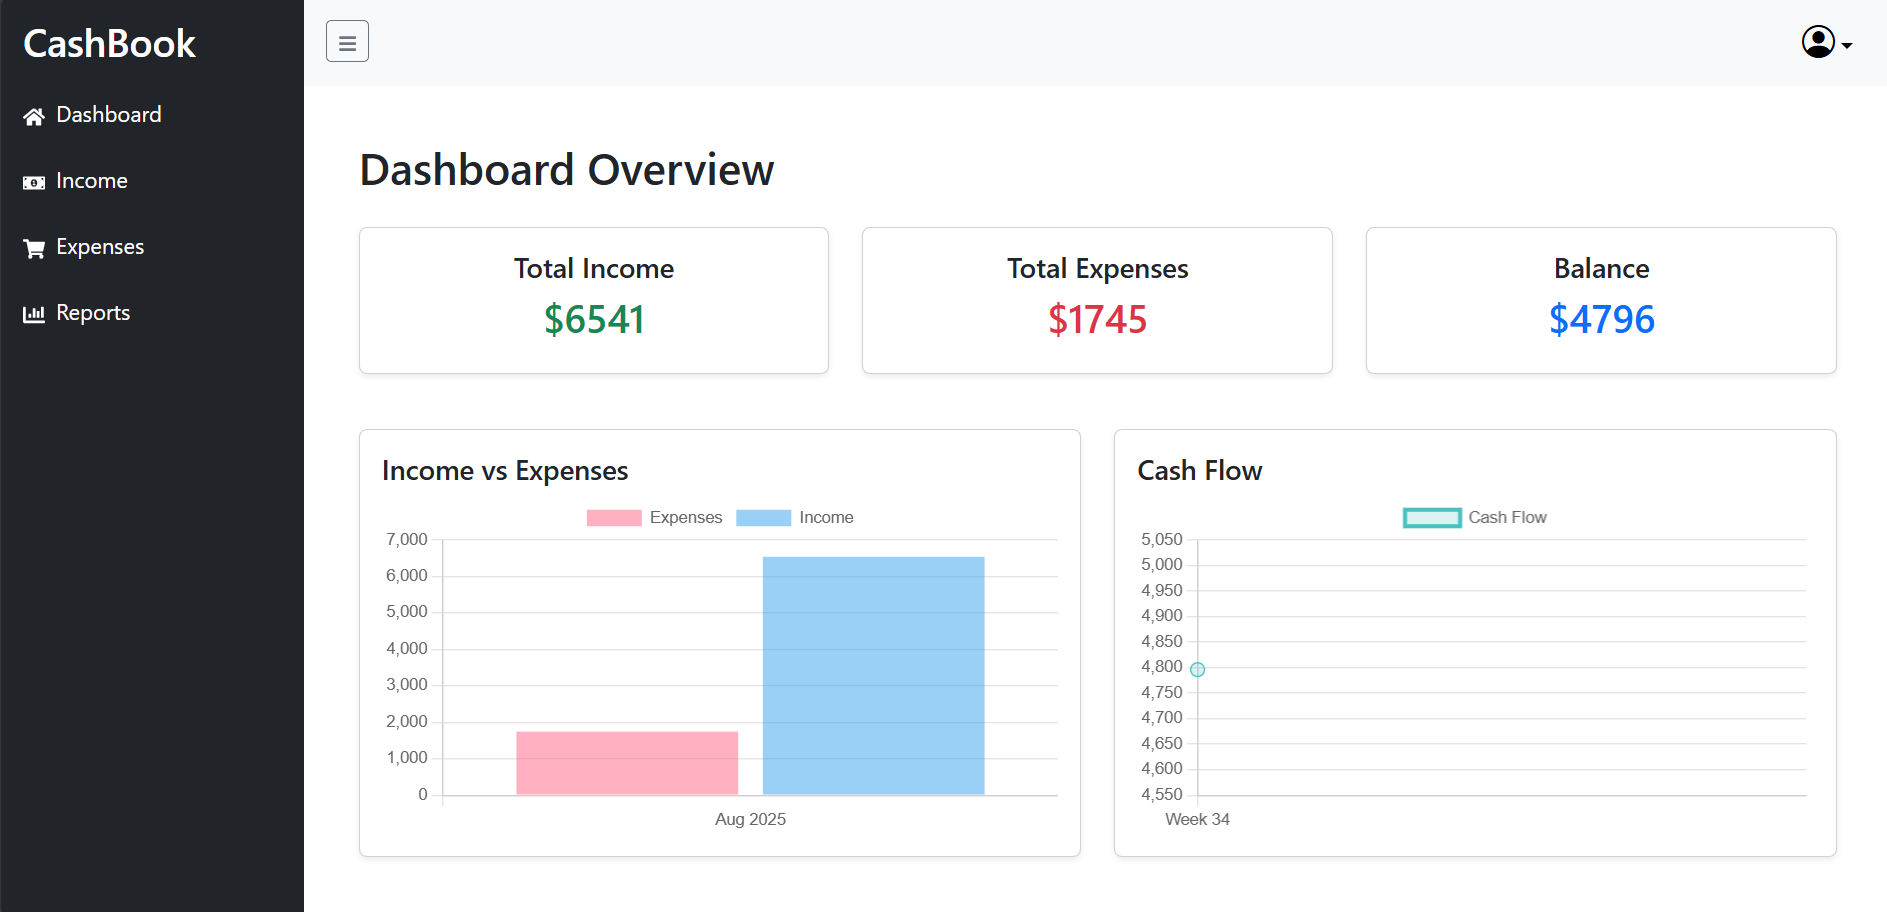
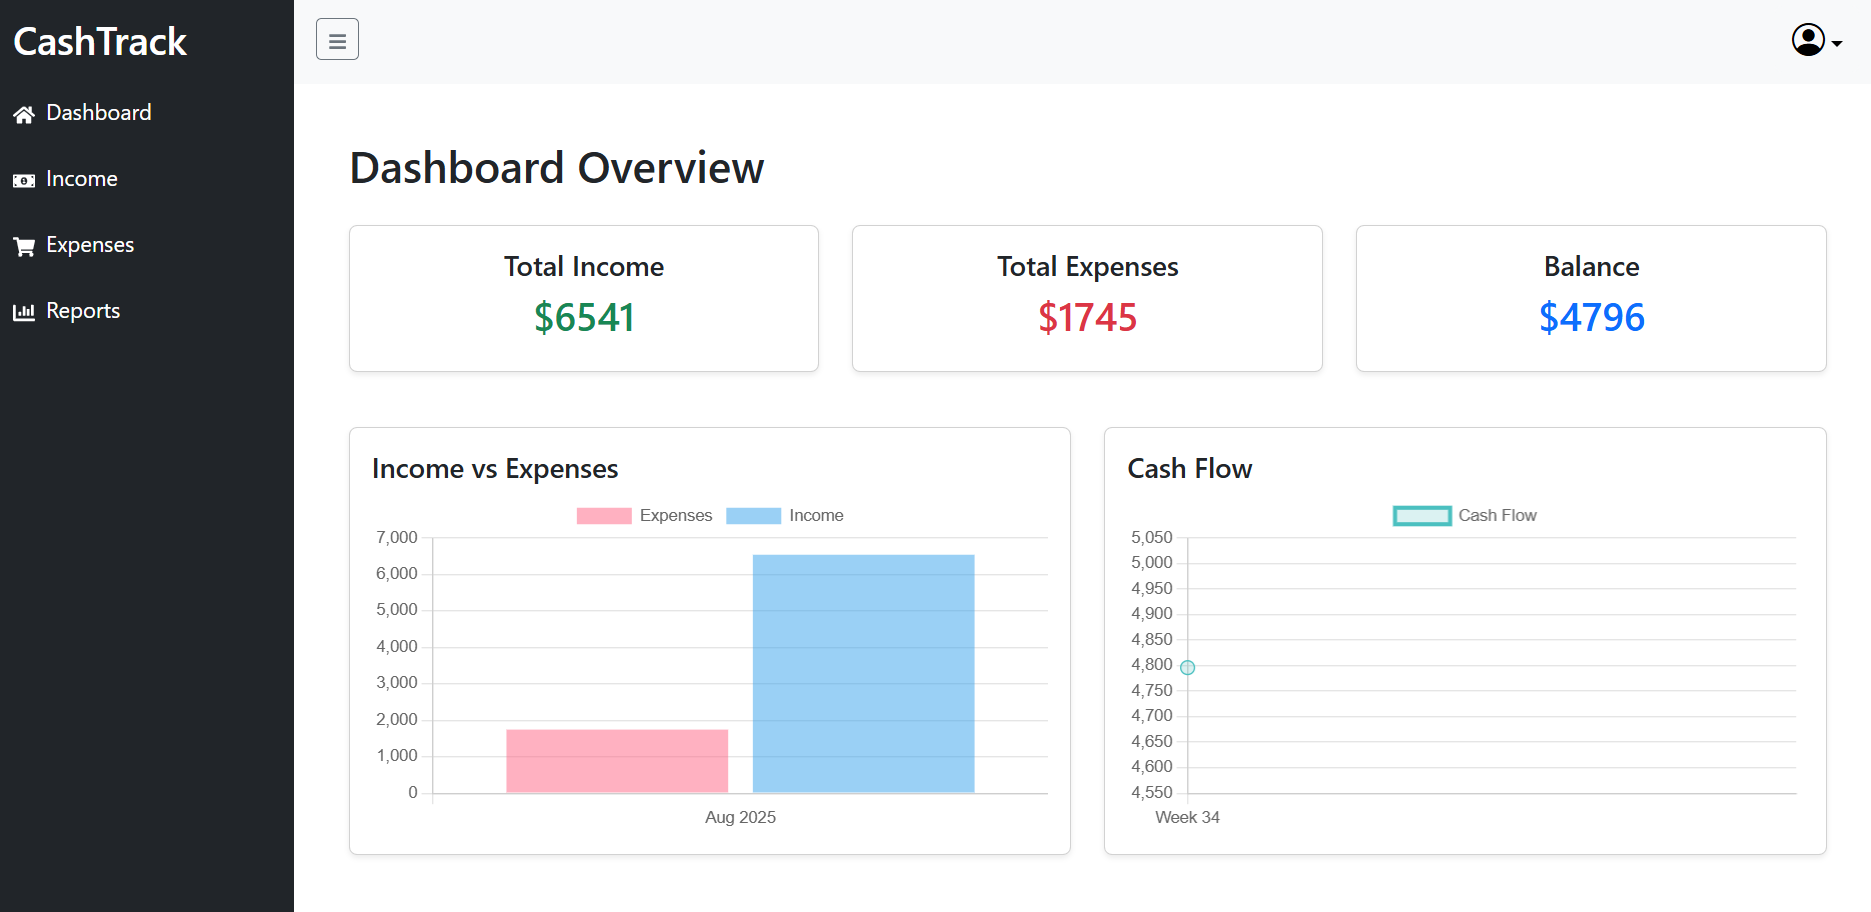
Update sidebar and assets

diff --git a/frontend/src/components/Sidebar.jsx b/frontend/src/components/Sidebar.jsx
@@ -34,7 +34,7 @@ export default function Sidebar({ collapsed, setCollapsed }) {
     >
       {/* Header with optional close button */}
       <div className="d-flex align-items-center justify-content-between p-3">
-        {!collapsed && <h3 className="mb-0">CashBook</h3>}
+        {!collapsed && <h3 className="mb-0">CashTrack</h3>}
 
         {/* Close button only on mobile */}
         {isMobile && !collapsed && (

diff --git a/frontend/index.html b/frontend/index.html
@@ -4,7 +4,7 @@
     <meta charset="UTF-8" />
     <link rel="icon" type="image/svg+xml" href="/book.svg" />
     <meta name="viewport" content="width=device-width, initial-scale=1.0" />
-    <title>Cashbook</title>
+    <title>CashTrack</title>
   </head>
   <body>
     <div id="root"></div>
